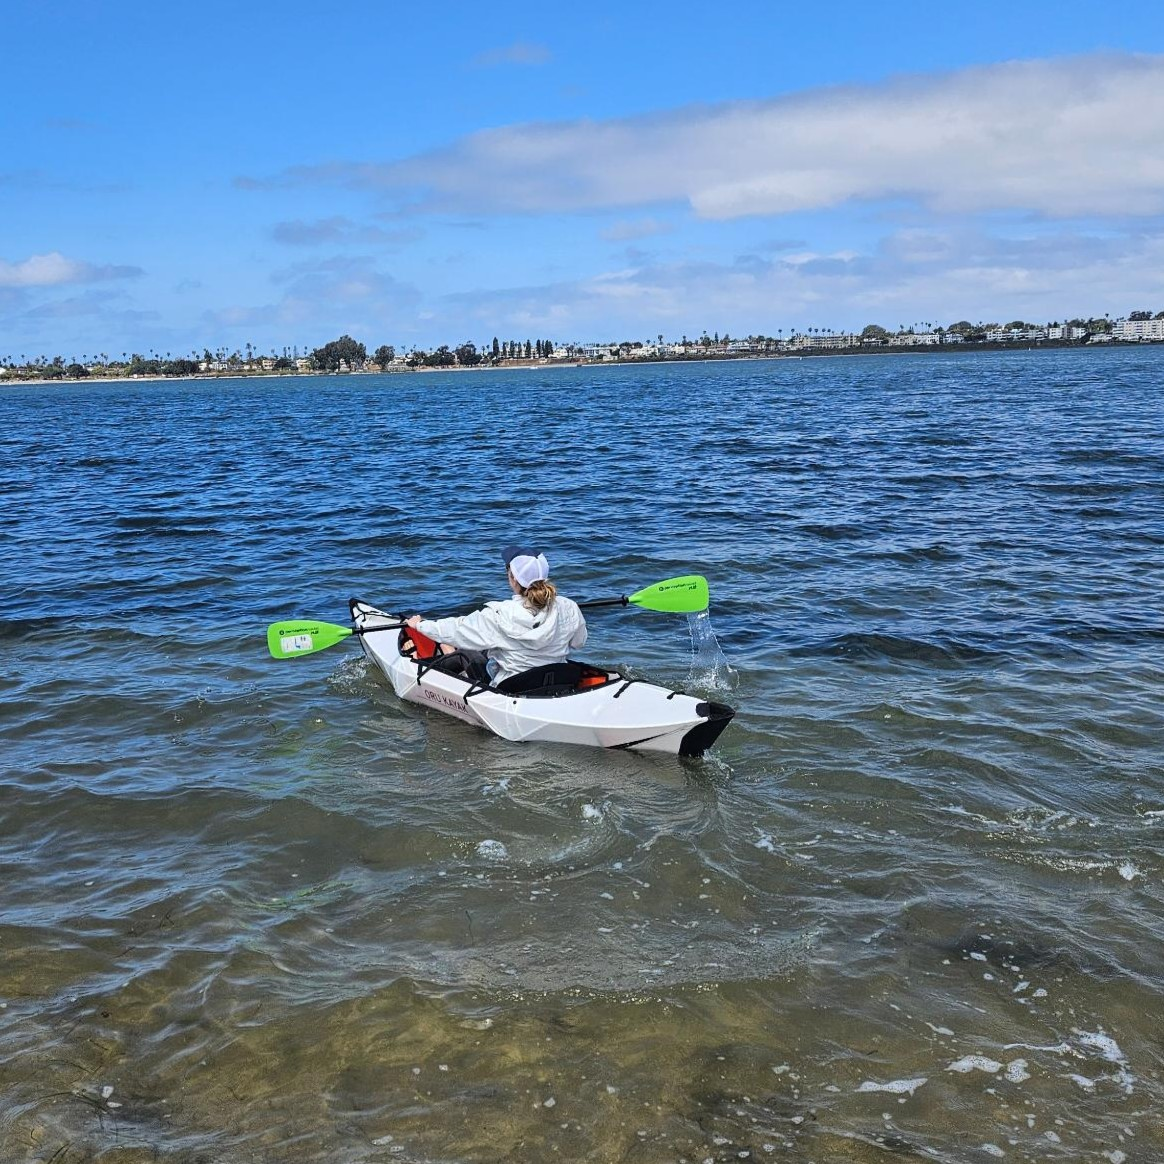
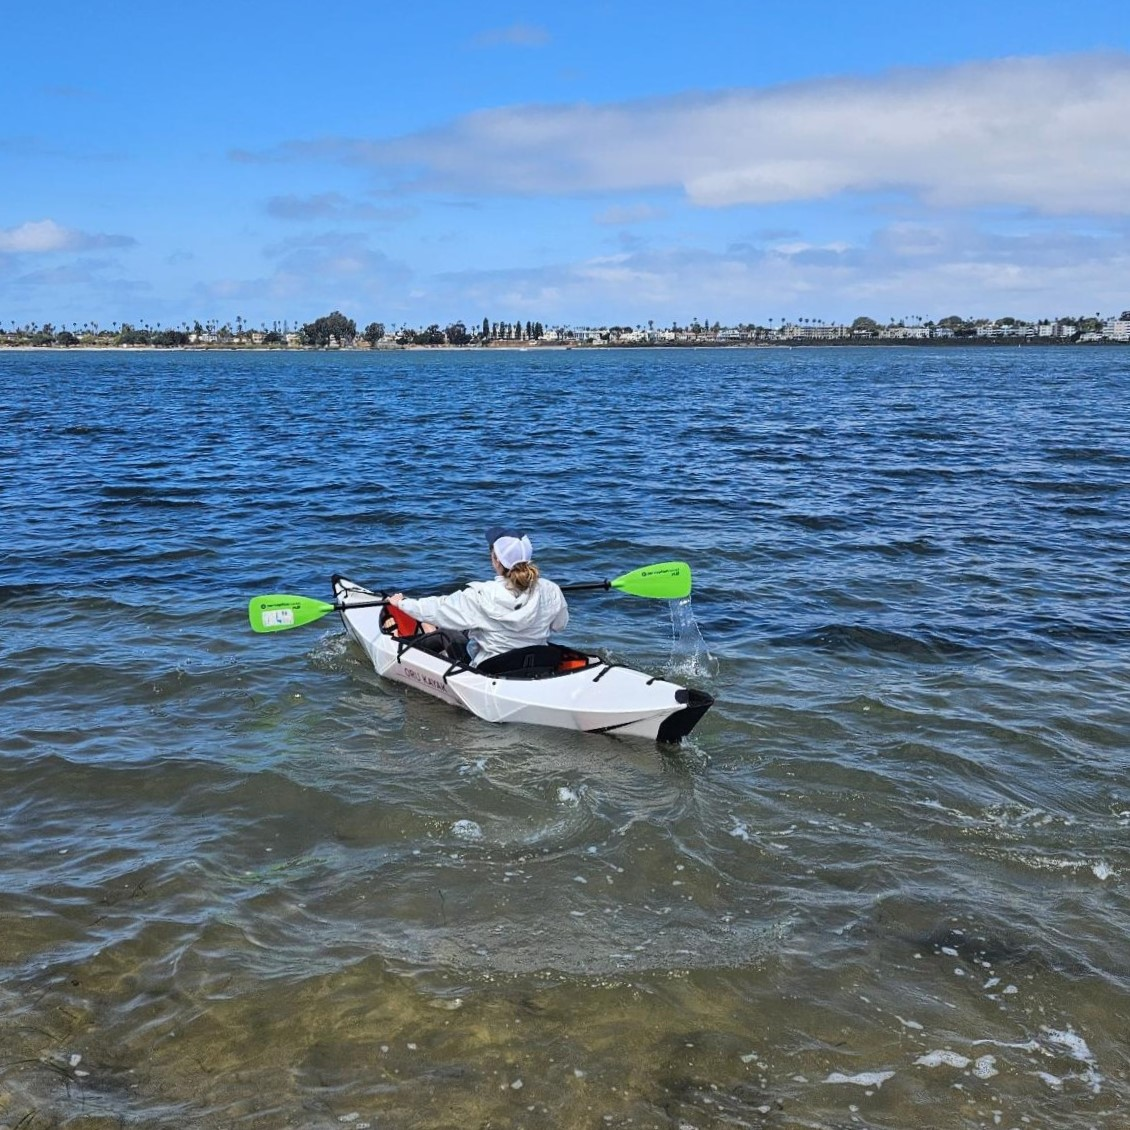
home page layout

diff --git a/src/styles/global.css b/src/styles/global.css
@@ -27,7 +27,7 @@
     box-shadow: var(--shadow-xl);
   }
 
-  .hero-image {
+  .header-image {
     clip-path: circle(50%);
   }
 }
